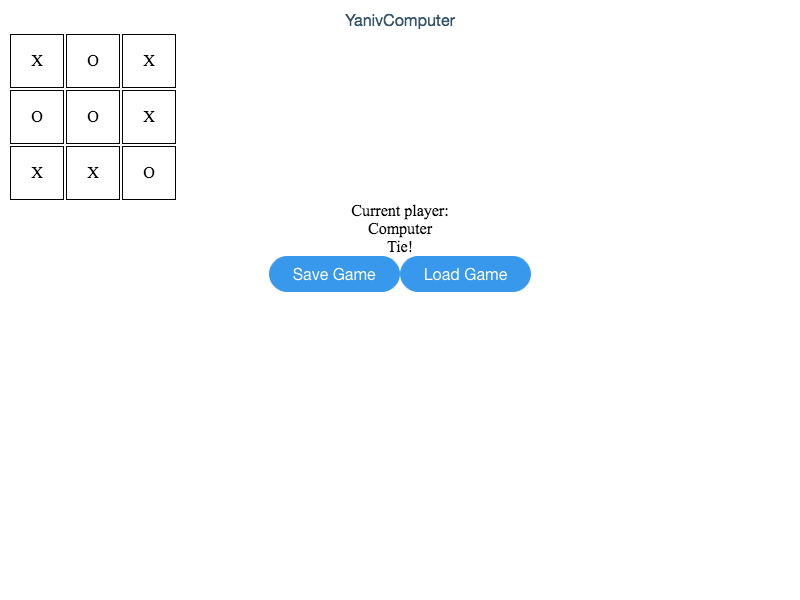
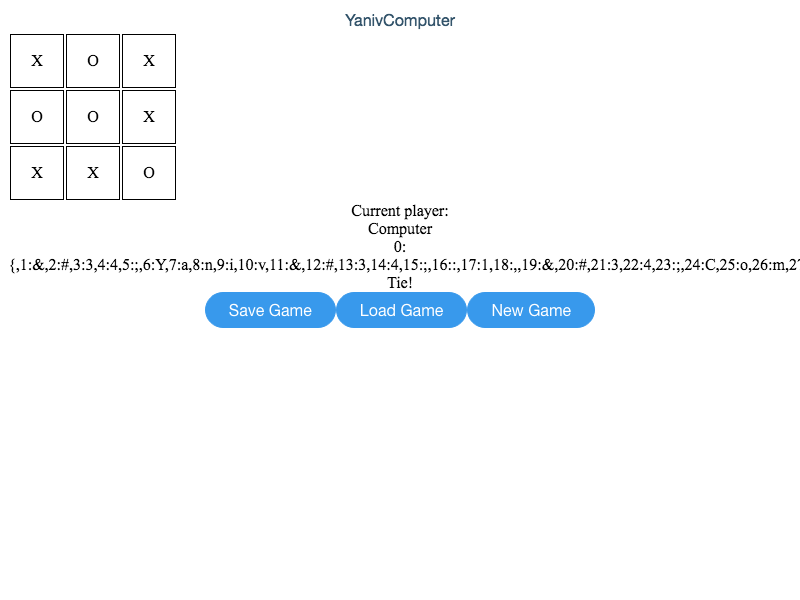
add tests

Changed region(s): [[0.0, 0.39, 1.0, 0.57]]

diff --git a/test/e2e/app.e2e.js b/test/e2e/app.e2e.js
@@ -2,9 +2,14 @@ import {expect} from 'chai';
 import {inputTestkitFactory, buttonTestkitFactory, labelTestkitFactory} from 'wix-style-react/dist/testkit/puppeteer';
 import {beforeAndAfter, app} from './../environment';
 import './e2e-common';
+import Axios from 'axios';
 
 const appDriver = ({page}) => ({
   navigate: () => page.goto(app.getUrl('/')),
+  flush: async () => {
+    let url = app.getUrl('/api/flush');
+    return await Axios.post(url);
+  },
   newGame: async ({player1, player2}) => {
     const p1Testkit = await inputTestkitFactory({dataHook: 'p1-input', page});
     const p2Testkit = await inputTestkitFactory({dataHook: 'p2-input', page});
@@ -29,13 +34,28 @@ const appDriver = ({page}) => ({
     const buttonTestkit = await buttonTestkitFactory({dataHook: 'save-game', page});
     await buttonTestkit.click();
   },
+  clickNewGameButton: async () => {
+    const buttonTestkit = await buttonTestkitFactory({dataHook: 'new-game', page});
+    await buttonTestkit.click();
+  },
   loadGame: async () => {
     const buttonTestkit = await buttonTestkitFactory({dataHook: 'load-game', page});
     await buttonTestkit.click();
   },
+  winGameBySecondPlayer: async (first, second) => {
+    await driver.newGame({player1: first, player2: second});
+    await driver.clickACellAt({x: 0, y: 0});
+    await driver.clickACellAt({x: 0, y: 1});
+    await driver.clickACellAt({x: 1, y: 0});
+    await driver.clickACellAt({x: 0, y: 2});
+    await driver.clickACellAt({x: 2, y: 0});
+  },
   getGameBoard: async () => await page.$('[data-hook="game-board"]'),
+  getLeaderBoard: async () => await page.$eval('[data-hook="leader-board"]', el => el.innerText),
   getRegistrationForm: async () => await page.$('[data-hook="registration-form"]'),
   isPlayerNameVisible: async () => !!await page.$('[data-hook="current-player-name"]'),
+  isLeaderBoardVisible: async () => !!await page.$('[data-hook="leader-board"]'),
+  // isLeaderBoardVisible: async () => await page.$eval('[data-hook="current-player-name"]', el => el.innerText),
   getCurrentPlayerName: async () => await page.$eval('[data-hook="current-player-name"]', el => el.innerText)
 });
 
@@ -118,7 +138,7 @@ describe('React application', () => {
     expect(await driver.getWinnerMessage()).to.equal(`Tie!`);
   });
 
-  xit('should save a game', async () => {
+  it('should save a game', async () => {
     const player1 = 'Yaniv';
     const player2 = 'Computer';
     await driver.navigate();
@@ -127,6 +147,7 @@ describe('React application', () => {
     await driver.saveGame();
     await driver.navigate();
     await driver.loadGame();
+    await page.waitFor('[data-hook="p1-input"]');
     expect(await driver.getPlayer1Title()).to.equal(player1);
     expect(await driver.getPlayer2Title()).to.equal(player2);
     expect(await driver.getACellAt({x: 0, y: 0})).to.equal('X');
@@ -164,5 +185,33 @@ describe('React application', () => {
     await driver.newGame({player1, player2});
     expect(await driver.isPlayerNameVisible()).to.equal(true);
     expect(await driver.getCurrentPlayerName()).to.equal('Yaniv');
+  });
+
+  it('should show leader board', async () => {
+    await driver.navigate();
+    expect(await driver.isLeaderBoardVisible()).to.equal(true);
+  });
+
+  it('should show correct leaderboard', async () => {
+    const player1 = 'Yaniv';
+    const player2 = 'Computer';
+    await driver.navigate();
+    await driver.flush();
+    await driver.winGameBySecondPlayer(player1, player2);
+    expect(await driver.getLeaderBoard()).to.equal(`${player1}:1`);
+    await driver.navigate();
+    await driver.winGameBySecondPlayer(player1, player2);
+    expect(await driver.getLeaderBoard()).to.equal(`${player1}:2`);
+  });
+
+  it('should start new game', async () => {
+    const player1 = 'Yaniv';
+    const player2 = 'Computer';
+    await driver.navigate();
+    await driver.flush();
+    await driver.winGameBySecondPlayer(player1, player2);
+    await driver.clickNewGameButton()
+    expect(await driver.getRegistrationForm()).to.not.equal(null);
+    expect(await driver.getGameBoard()).to.equal(null);
   });
 });

diff --git a/src/components/App/App.js b/src/components/App/App.js
@@ -11,22 +11,24 @@ class App extends React.Component {
   constructor() {
     super();
     this.state = {
-      player1: '',
-      player2: '',
-      winner: '',
-      tie: false,
-      currentPlayer: 'X',
-      board: [['', '', ''], ['', '', ''], ['', '', '']]
+      ...this.getDefaultState(),
+      leaderBoard: window.__LEADER_BOARD__ || {}
     };
   }
 
-  handleCellClick = ({cIndex, rIndex}) => {
+  handleCellClick = async ({cIndex, rIndex}) => {
     const board = this.state.board.map(row => [...row]);
     if (board[rIndex][cIndex] !== '') return;
     board[rIndex][cIndex] = this.state.currentPlayer;
     const status = gameStatus(board);
     if (status === this.state.currentPlayer) {
-      this.setState({winner: this.state.currentPlayer});
+      let {data: leaderBoard} = await axios.post('/api/leader-board', {
+        name: this.getPlayerName(this.state.currentPlayer)
+      });
+      this.setState({
+        leaderBoard,
+        winner: this.state.currentPlayer
+      });
     } else if (status === 'XO') {
       this.setState({tie: true});
     }
@@ -47,6 +49,22 @@ class App extends React.Component {
     const {board, player1, player2} = res.data;
     this.setState({board, player1, player2});
   }
+  getDefaultState = () => {
+    return {
+      player1: '',
+      player2: '',
+      winner: '',
+      tie: false,
+      currentPlayer: 'X',
+      board: [['', '', ''], ['', '', ''], ['', '', '']]
+    }
+  }
+  handleNewGame = () => {
+    this.setState(
+      this.getDefaultState()
+    );
+  }
+  getPlayerName = (value) => value === 'X' ? this.state.player1 : this.state.player2
 
   render() {
     return (
@@ -61,16 +79,20 @@ class App extends React.Component {
         {this.state.player1 && this.state.player2 &&
           <div> Current player:
             <div data-hook="current-player-name">
-              {this.state.currentPlayer === 'X' ? this.state.player1 : this.state.player2}
+              {this.getPlayerName(this.state.currentPlayer)}
             </div>
           </div>
         }
+        <div data-hook='leader-board'>
+          {Object.entries(this.state.leaderBoard).map(([key, value]) => `${key}:${value}`).join(',')}
+        </div>
         {this.state.winner &&
-        <div data-hook="winner">{`${this.state.winner === 'X' ? this.state.player1 : this.state.player2} Won!`}</div>}
+        <div data-hook="winner">{`${this.getPlayerName(this.state.winner)} Won!`}</div>}
         {this.state.tie && <div data-hook="winner">Tie!</div>}
         <div>
-          <Button dataHook="save-game" onClick={() => this.handleSave()}>Save Game</Button>
-          <Button dataHook="load-game" onClick={() => this.handleLoad()}>Load Game</Button>
+          <Button dataHook="save-game" onClick={this.handleSave}>Save Game</Button>
+          <Button dataHook="load-game" onClick={this.handleLoad}>Load Game</Button>
+          <Button dataHook="new-game" onClick={this.handleNewGame}>New Game</Button>
         </div>
       </div>
     );

diff --git a/src/server.js b/src/server.js
@@ -4,6 +4,7 @@ import ejs from 'ejs';
 import wixExpressCsrf from 'wix-express-csrf';
 import wixExpressRequireHttps from 'wix-express-require-https';
 import {readFileSync} from 'fs';
+import bodyParser from 'body-parser';
 
 module.exports = (app, context) => {
   const config = context.config.load('fed-crash-course-tdd');
@@ -13,10 +14,16 @@ module.exports = (app, context) => {
 
   app.use(wixExpressCsrf());
   app.use(wixExpressRequireHttps);
-
+  app.use(bodyParser.json());
+  let leaderBoard = {};
   app.post('/api/game', (req, res) => {
     res.end();
   });
+
+  app.post('/api/flush', (req, res) => {
+    leaderBoard = {};
+    res.send('ok');
+  })
 
   app.get('/api/game', (req, res) => {
     res.json({
@@ -24,6 +31,20 @@ module.exports = (app, context) => {
       player2: 'Computer',
       board: [['X', '', ''], ['', '', ''], ['', '', '']],
     });
+  });
+
+  app.get('/api/leader-board', (req, res) => {
+    res.json(leaderBoard);
+  });
+
+  app.post('/api/leader-board',  (req, res) => {
+    const {name} = req.body;
+    if (leaderBoard[name] === undefined) {
+      leaderBoard[name] = 1;
+    } else {
+      leaderBoard[name] += 1;
+    }
+    res.json(leaderBoard);
   });
 
   app.get('/', (req, res) => {
@@ -38,7 +59,8 @@ module.exports = (app, context) => {
       basename: req.aspects['web-context'].basename,
       debug: req.aspects['web-context'].debug || process.env.NODE_ENV === 'development',
       clientTopology: config.clientTopology,
-      title: 'Wix Full Stack Project Boilerplate'
+      title: 'Wix Full Stack Project Boilerplate',
+      leaderBoard: JSON.stringify(leaderBoard)
     };
   }
 

diff --git a/src/components/App/App.spec.js b/src/components/App/App.spec.js
@@ -6,6 +6,7 @@ import i18next from 'i18next';
 import {I18nextProvider} from 'react-i18next';
 import App from './App';
 import translation from '../../assets/locale/messages_en.json';
+import eventually from 'wix-eventually';
 import {
   inputTestkitFactory as enzymeInputTestkitFactory,
   buttonTestkitFactory as enzymeButtonTestkitFactory
@@ -67,7 +68,7 @@ describe('App', () => {
     expect(driver.getACellAt(1)).to.eq('O');
   });
 
-  it('second player should win the game', () => {
+  it('second player should win the game', async () => {
     const player1 = 'Yaniv';
     const player2 = 'Computer';
     driver.render(
@@ -84,6 +85,7 @@ describe('App', () => {
     driver.clickACellAt(7);
     driver.clickACellAt(2);
 
-    expect(driver.getWinnerMessage()).to.eq('Computer Won!');
+
+    eventually(() => expect(driver.getWinnerMessage()).to.eq('Computer Won!'))
   });
 });

diff --git a/test/it/server.spec.js b/test/it/server.spec.js
@@ -16,4 +16,21 @@ describe('When rendering', () => {
 
     expect(response.data).to.contain('Wix Full Stack Project Boilerplate');
   });
+
+  it('should return leader board', async () => {
+    const url = app.getUrl('/api/leader-board');
+    const response = await axiosInstance.get(url);
+    expect(response.data).to.be.eql({});
+  });
+
+  it('should save leader board', async () => {
+    const url = app.getUrl('/api/leader-board');
+    const resp1 = await axiosInstance.post(url, {name: 'Andrew'});
+    expect(resp1.data).to.be.eql({'Andrew': 1});
+    const resp2 = await axiosInstance.post(url, {name: 'Andrew'});
+    expect(resp2.data).to.be.eql({'Andrew': 2});
+    const leaderBoard = await axiosInstance.get(url);
+    expect(leaderBoard.data).to.be.eql({Andrew: 2});
+  });
+
 });

diff --git a/src/client.js b/src/client.js
@@ -10,12 +10,12 @@ import App from './components/App';
 const baseURL = window.__BASEURL__;
 const locale = window.__LOCALE__;
 const staticsBaseUrl = window.__STATICS_BASE_URL__;
-
+const leaderBoard = window.__LEADER_BOARD__;
 wixAxiosConfig(axios, {baseURL});
 
 ReactDOM.render(
   <I18nextProvider i18n={i18n({locale, baseUrl: staticsBaseUrl})}>
-    <App/>
+    <App />
   </I18nextProvider>,
   document.getElementById('root')
 );
